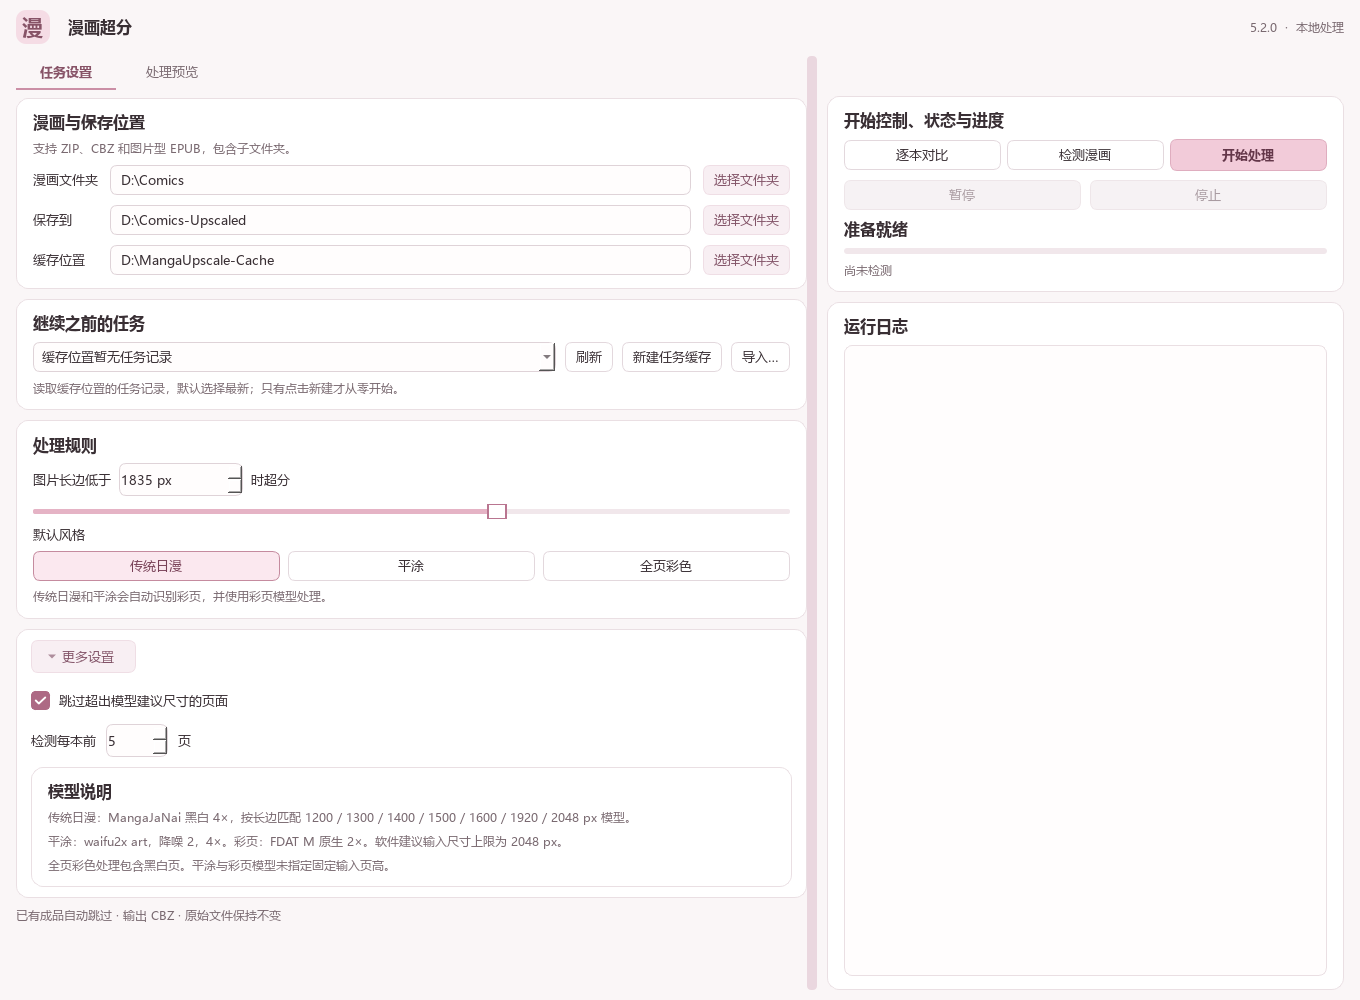
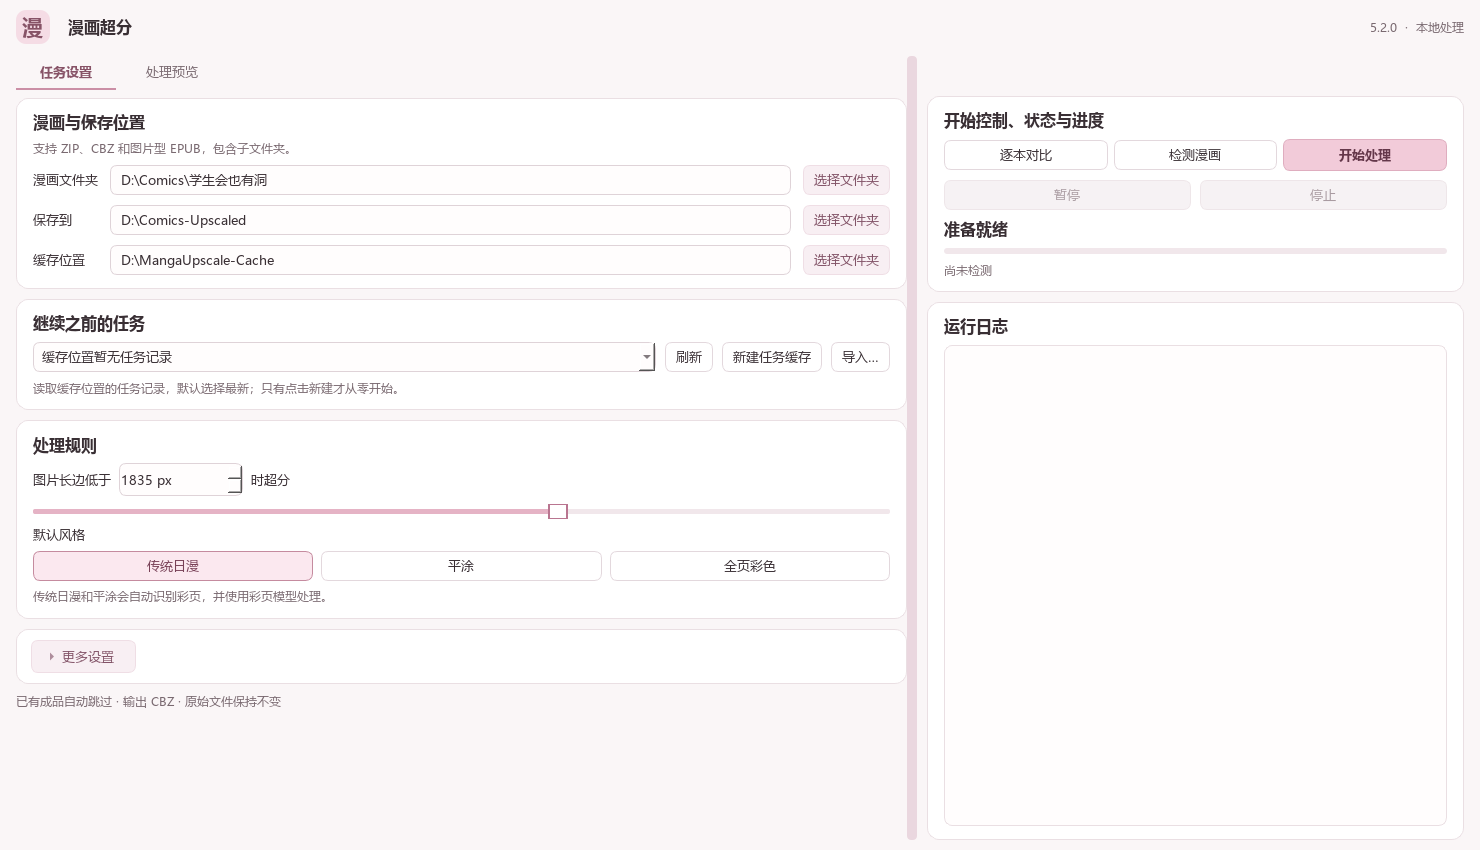
Show all three interfaces and simplify README copy

diff --git a/README.md b/README.md
@@ -2,48 +2,29 @@
 
 # 漫画超分 · MangaUpscale
 
-### 让喜欢的漫画，经得起放大。
+Windows 漫画批量超分工具，支持 ZIP、CBZ、图片型 EPUB，输出 CBZ。
 
-黑白线稿、网点与彩页，按画面选择模型，把整套漫画整理成更清晰的 CBZ。
-
-[下载 Windows 客户端](https://github.com/Duke486/MangaUpscale/releases/latest) · [开始使用](#开始使用) · [交流与反馈](https://github.com/Duke486/MangaUpscale/issues)
+[下载客户端](https://github.com/Duke486/MangaUpscale/releases/latest) · [使用说明](#开始使用) · [问题反馈](https://github.com/Duke486/MangaUpscale/issues)
 
 </div>
 
-![漫画超分桌面界面：任务设置、模型说明与处理控制](docs/images/app-settings.png)
+## 任务设置
 
-小尺寸的漫画放到大屏上，线条与文字也跟着变得模糊。同一套书里，黑白正文、彩色扉页与不同尺寸的扫描页，又需要不同的处理方式。
+选择漫画、输出与缓存目录，设置超分尺寸和默认模型。支持子文件夹扫描、历史任务恢复、暂停和断点续做。源文件保持不变，成品校验通过后保存。
 
-漫画超分是一款 **Windows 本地批量超分工具**，支持 ZIP、CBZ 与图片型 EPUB，统一输出 CBZ。按页识别黑白与彩色，按需放大；也可以先逐本对比效果，再决定每本使用的风格。任务进度保存在本地，暂停后随时接着处理。
+![任务设置](docs/images/01-settings.png)
 
-## 从一页对比，到整套收藏
+## 逐本对比
 
-<table>
-<tr>
-<td width="50%" valign="top">
-<h3>黑白与彩色，各有选择</h3>
-<p>传统日漫使用 MangaJaNai 处理线稿与网点，平涂风格使用 waifu2x art；自动识别的彩页交给 IllustrationJaNai。也可以选择全页彩色，让整本统一使用彩页模型。</p>
-<p>识别会检查画面主体里的局部彩色线条、标题、贴纸与角色，并抑制页边小面积彩色水印和轻微纸张偏色。预览与正式处理使用同一套检测。</p>
-</td>
-<td width="50%" valign="top">
-<h3>先看效果，再处理整本</h3>
-<p>在逐本对比中横向浏览页面缩略图，选一页生成预览，左右查看原图与结果。滚轮缩放、拖动、双击适屏，也能按住查看原图。</p>
-<p>每本可独立选择风格，确认后保存这次选择；之后修改任务默认风格，也会保留已确认的设置。从对比窗口启动时，只处理已确认的漫画。</p>
-</td>
-</tr>
-<tr>
-<td width="50%" valign="top">
-<h3>处理到哪里，就从哪里继续</h3>
-<p>扫描漫画文件夹及其子文件夹，批量处理整套收藏。暂停、停止后保留断点，继续时复用已校验的缓存，已有成品自动跳过。</p>
-<p>历史任务直接从缓存位置读取，默认选择最新记录。切回某个任务，恢复它的漫画路径、保存位置、检测参数与默认风格。</p>
-</td>
-<td width="50%" valign="top">
-<h3>边处理，边看清每一步</h3>
-<p>处理预览展示已完成页面及原图，分辨率与文件大小随页显示。可以切换实际处理的漫画，单独调整模型、重做当前本，或统一修改任务默认风格。</p>
-<p>状态、进度与日志常驻右侧，右栏可拖动调整宽度。源漫画保持不变，生成的 CBZ 通过校验后才写入保存位置。</p>
-</td>
-</tr>
-</table>
+选择页面生成预览，左右对比原图与结果，支持缩放、拖动和按住看原图。每本可单独指定模型，确认后批量处理。
+
+![逐本对比](docs/images/02-comparison.png)
+
+## 处理预览
+
+查看已完成页面，切换处理的漫画，修改单本模型或任务默认风格。可重做黑白页并保留彩页缓存，也可用彩页模型重做整本。
+
+![处理预览](docs/images/03-processing.png)
 
 ## 开始使用
 
@@ -88,7 +69,7 @@
 
 </details>
 
-## 按画面，选择合适的模型
+## 模型
 
 | 风格 | 黑白页 | 彩页 |
 | --- | --- | --- |
@@ -100,13 +81,13 @@
 
 继续旧任务时，会从本地快照更新旧版颜色检测结果。分类变化的漫画包会重新打包，未变化的页面复用缓存，新成品校验通过后替换旧成品。
 
-## 整理成方便阅读的 CBZ
+## 输出格式
 
 ZIP / CBZ 保留包内阅读顺序与原始页名；图片型 EPUB 按 spine 页序读取，输出使用连续页码。新任务保留原始包名，需要转为 JPEG 的页面使用 `.jpg` 扩展名。
 
 处理只对低于所设长边阈值、且符合尺寸规则的页面进行超分，其余页面保留原尺寸。输出统一打包为 CBZ，可交给支持该格式的阅读器继续阅读。
 
-## 技术细节与开发
+## 开发与构建
 
 Python 3.11+ 与 PySide6 桌面界面，PyTorch / nunif 处理黑白页，TensorRT 处理彩页。本地任务缓存保存进度与风格，运行环境通过 `runtime.json` 的相对路径配置，可随安装目录移动。
 
@@ -145,8 +126,8 @@ GPU 运行库与模型不提交到源码仓库。准备好 `runtime/python`、`r
 
 </details>
 
-## 致谢与第三方组件
+## 第三方组件
 
-感谢 [MangaJaNai / IllustrationJaNai](https://github.com/the-database/MangaJaNai)、[nunif / waifu2x](https://github.com/nagadomi/nunif)、PyTorch、TensorRT、PySide6 与 7-Zip 等项目。
+主要依赖：[MangaJaNai / IllustrationJaNai](https://github.com/the-database/MangaJaNai)、[nunif / waifu2x](https://github.com/nagadomi/nunif)、PyTorch、TensorRT、PySide6、7-Zip。
 
 MangaJaNai / IllustrationJaNai 模型采用 **CC BY-NC 4.0，仅限非商业使用**。各组件来源、许可证与随附声明见 [第三方说明](THIRD_PARTY.md) 和 [许可证目录](licenses)。

diff --git a/docs/images/ASSETS.md b/docs/images/ASSETS.md
@@ -1,3 +1,13 @@
-# README 界面截图
+# README 图片
 
-`app-settings.png` 直接实例化当前仓库的 PySide6 界面，以 Qt `QWidget.grab()` 导出。使用示例路径，不加载个人漫画和任务记录。离屏渲染显式加载 Windows 微软雅黑字体，展开「更多设置」展示模型说明。
+三个界面均从当前仓库的真实 PySide6 控件以 `QWidget.grab()` 导出，再用 Qt 排版为宣传图。未使用 AI 绘图。
+
+| 宣传图 | 原始截图 | 内容 |
+| --- | --- | --- |
+| `01-settings.png` | `app-settings.png` | 任务设置 |
+| `02-comparison.png` | `app-comparison.png` | 逐本对比 |
+| `03-processing.png` | `app-processing.png` | 处理预览 |
+
+截图使用独立展示任务和示例路径。漫画页及超分结果取自《学生会也有洞》第 1 卷已有本地缓存，未重新推理或修改源任务；任务列表和日志用于界面展示。原页为 1126 × 1600，结果为 MangaJaNai 4× 输出的 4504 × 6400。预览使用与应用相同的多级缩放方式。
+
+宣传图保留真实控件文字和布局，仅添加背景、标题、阴影与页序。截图中的漫画内容归原作者及相应权利人所有。
